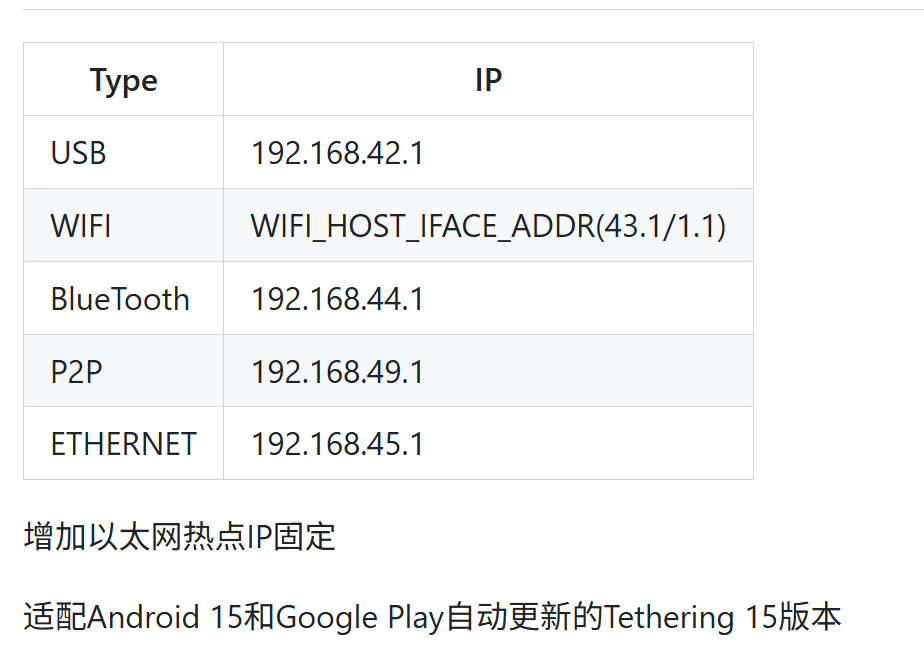
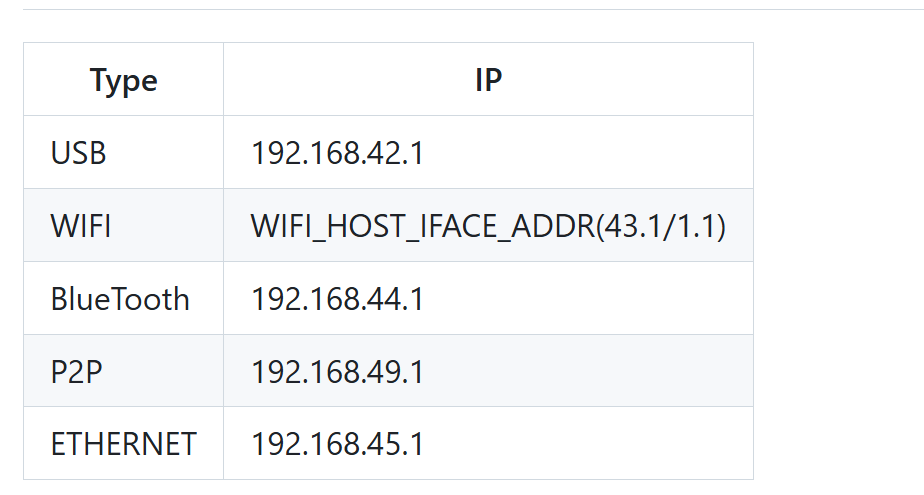
修订文章

diff --git a/src/content/posts/fixedAPip/index.md b/src/content/posts/fixedAPip/index.md
@@ -25,7 +25,7 @@ draft: false
 # 一、Root临时修改法
 打开MT管理器、Termux或类似的终端\
 输入`su`获取root权限，否则修改时会提示“Permission denied”\
-输入指令查看无线接口信息，确认热点对应的网卡名字，通常是`wlan2`
+输入指令查看无线接口信息，确认热点对应的网卡名字，通常是`wlan+数字`
 ```bash
 iw dev
 ```
@@ -84,22 +84,16 @@ ifconfig wlan2 192.168.137.152
 **注：Tethering可能勾选失败，输入正常现象，忽略即可**
 ## 3、实现原理
 Android开启热点大致流程为：
+```mermaid
+flowchart
+    A[打开 Wi-Fi 热点] --> B[Tethering]
+    B --> C[创建热点接口 wlan2]
+    C --> D[IpServer]
+    D --> E[为 wlan0 分配 IPv4 地址]
+    E --> F[启动 DHCP Server]
+    F --> G[IP：192.168.x.x<br>网关：192.168.x.1<br>a]
 ```
-	打开 Wi-Fi 热点
-        ↓
-	Tethering
-        ↓
-	创建热点接口wlan2
-        ↓
-	IpServer
-        ↓
-	为 wlan0 分配 IPv4 地址
-        ↓
-	启动 DHCP Server
-        ↓
-	IP：192.168.x.x
-	网关：192.168.x.1
-```
+
 该模块在`为wlan0分配IPv4地址`这一步做Hook，把系统原本随机生成的地址替换成固定地址
 ### ①Android 9-10
 安卓9和10的Hook点均为
@@ -109,25 +103,22 @@ private String getRandomWifiIPv4Address()
 ```
 虽然所在类有所不同\
 安卓9：
-```
+```java
 com.android.server.connectivity.tethering.TetherInterfaceStateMachine
     └── getRandomWifiIPv4Address()
 ```
 安卓10：
-```
+```java
 android.net.ip.IpServer
     └── getRandomWifiIPv4Address()
 
 ```
 但大体思路相同
-```
-	SoftApHelper
-        ↓
-	Xposed Hook
-        ↓
-	拦截 getRandomWifiIPv4Address()
-        ↓
-	直接返回固定地址
+```mermaid
+flowchart TD
+    A[SoftApHelper] --> B[Xposed Hook]
+    B --> C[`拦截 getRandomWifiIPv4Address()`]
+    C --> D[直接返回固定地址]
 ```
 ### ②Android 11
 安卓再次更改网络共享架构\
@@ -145,18 +136,11 @@ mInterfaceType == TETHERING_WIFI
 
 最后再进行替换\
 Hook流程大致如下：
-```
-	requestIpv4Address()
-        ↓
-	是否mInterfaceType == TETHERING_WIFI
-        ↓
-        是
-        ↓
-	调用栈里面是否有configureIPv4？
-        ↓
-        是
-        ↓
-    替换地址
+```mermaid
+flowchart TD
+    A[`requestIpv4Address()`] --> B[是否 mInterfaceType == TETHERING_WIFI]
+    B -->|是| C[调用栈里面是否有 configureIPv4？]
+    C -->|是| D[替换地址]
 ```
 ### ③Android 12-13
 函数名没变，增加了参数`boolean useLastAddress`

diff --git a/src/content/posts/ons-web/index.md b/src/content/posts/ons-web/index.md
@@ -59,15 +59,14 @@ Onscripter引擎的最初设计目的就是为了方便跨平台移植用NScript
 
 下载好你要玩的Ons游戏，这里以ever17为例，直接将全部文件解压到OnsYuri的文件夹，不用做任何处理
 ![](image/6.png)
-在文件路径栏输入`cmd`，然后回车，会出现命令行窗口。
+在文件路径栏输入`cmd`，然后回车，会出现命令行窗口
 ![](image/8.png)
-在命令行窗口中输入
+在命令行窗口中输入指令后回车
 ```bash
 py onsyuri_index.py
 ```
-然后回车。
 ![](image/7.png)
-这样就已经完成了。
+这样就已经完成了
 
 ## 2、游戏解包(推荐)
 下载好你要玩的Ons游戏，这里以ever17为例，将全部文件解压到OnsYuri的文件夹
@@ -80,19 +79,24 @@ py onsyuri_index.py
 ![](image/11.png)
 点击Extract all，选择解压到OnsYuri的文件夹内(和刚刚选中的`.nsa`文件同目录)
 ![](image/12.png)
-这样游戏内容就已经提取出来了，可以将刚刚选中的`.nsa`文件删掉了。
+这样游戏内容就已经提取出来了，可以将刚刚选中的`.nsa`文件删掉了。\
 在文件路径栏输入`cmd`，然后回车，会出现命令行窗口。
 ![](image/8.png)
-在命令行窗口中输入`py onsyuri_index.py --lazyload`，然后回车。
+在命令行窗口中输入指令后回车
+```bash
+py onsyuri_index.py --lazyload
+```
 ![](image/13.png)
-这样就大功告成了。
+脚本会自动将所有游戏文件信息添加到`onsyuri_index.json`中
+这样就大功告成了
 
 # 三、启动游戏
 在宝塔面板/1Panel等面板中添加站点就可以游玩了。
 
 也可以将文件夹压缩成压缩包上传并部署至CloudflarePages、Vercel等无服务器平台。
 
-如果嫌麻烦，想在本地快速游玩，可以在刚刚的命令行窗口中输入：
+如果想在本地快速游玩，可以用`httpserver`启动网页服务\
+在刚刚的命令行窗口中输入：
 ```bash
 py -m http.server
 ```
